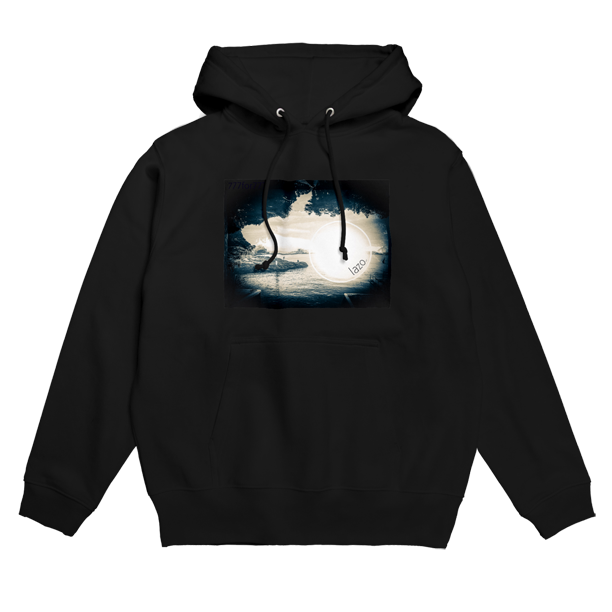
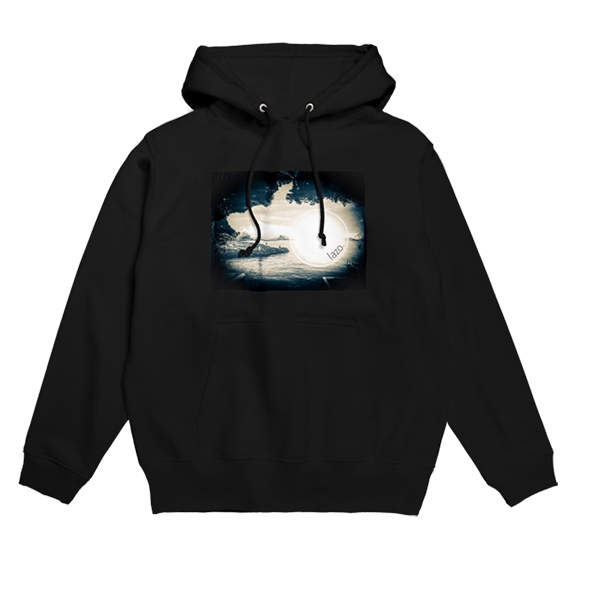
10041432

diff --git a/index.html b/index.html
@@ -178,7 +178,7 @@
     <div class="photoBox">
       
       <div class="photo2">
-        <img src="F2.png" alt="">
+        <img src="F1.png" alt="">
       </div>
   
       <div class="photo_box2"><h6>Fashion</h6>
